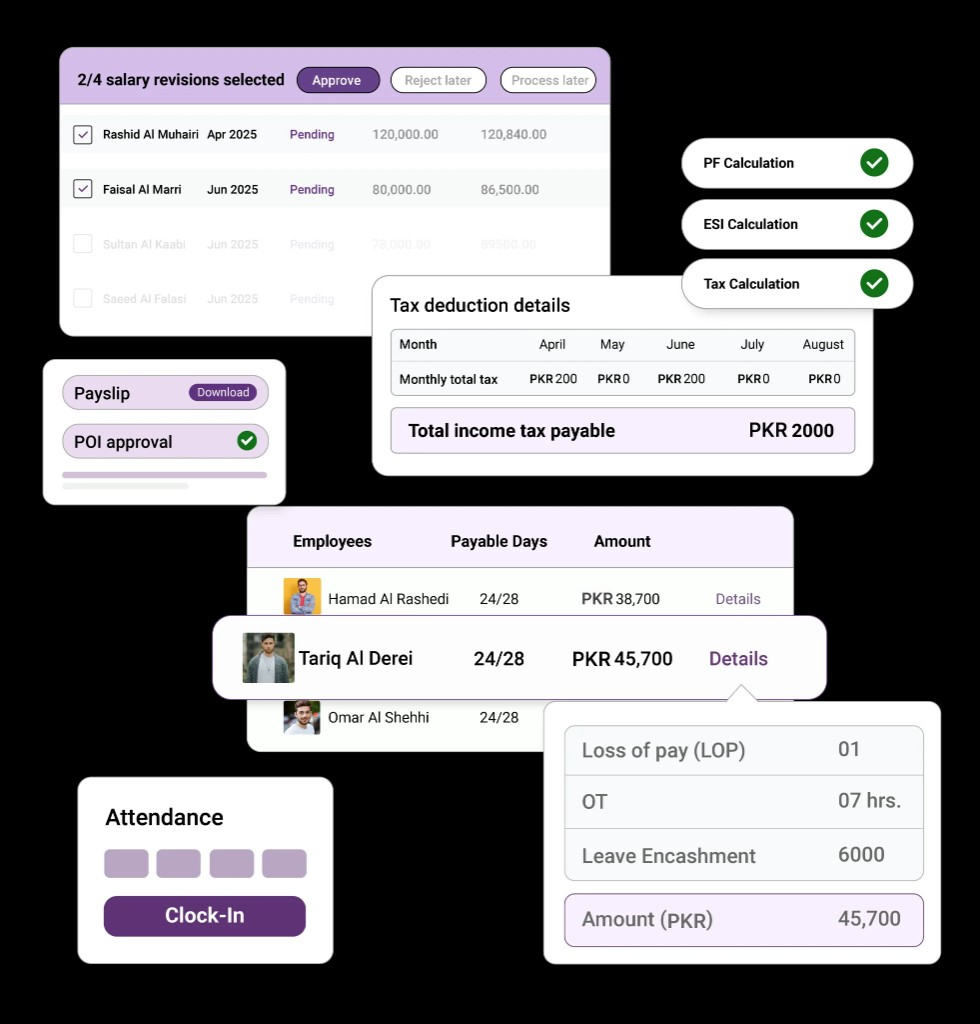
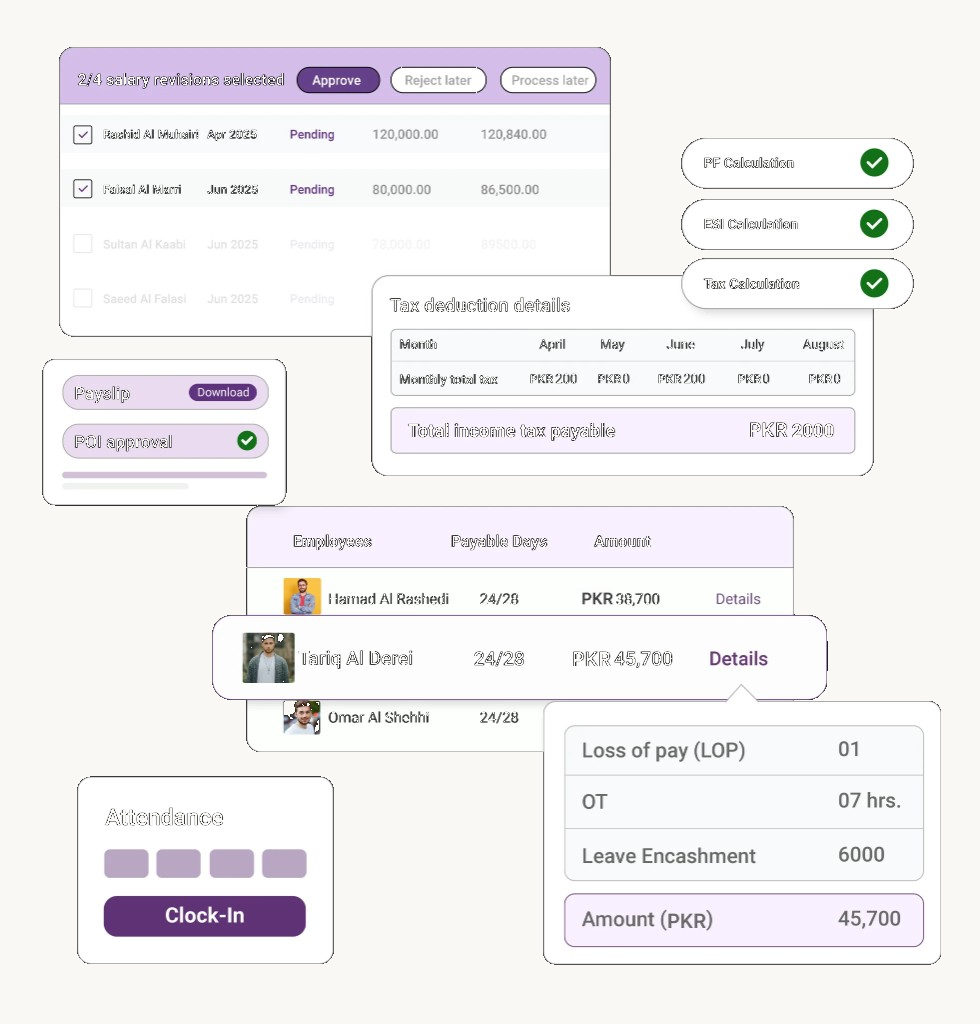
more changes

diff --git a/client/src/components/sections/hr-cream-split-section.tsx b/client/src/components/sections/hr-cream-split-section.tsx
@@ -17,8 +17,6 @@ interface HrCreamSplitSectionProps {
   /** Text column first on large screens */
   textFirst?: boolean;
   cream?: boolean;
-  /** Blends dark matte PNGs into the cream section background */
-  imageBlendLighten?: boolean;
 }
 
 export default function HrCreamSplitSection({
@@ -30,7 +28,6 @@ export default function HrCreamSplitSection({
   imageAlt,
   textFirst = true,
   cream = true,
-  imageBlendLighten = false,
 }: HrCreamSplitSectionProps) {
   const bg = cream ? HR_CREAM : "#ffffff";
 
@@ -72,19 +69,15 @@ export default function HrCreamSplitSection({
       delay={textFirst ? 0.08 : 0}
       className="w-full"
     >
-      <div
-        className="relative rounded-2xl p-2 sm:p-4"
-        style={{ backgroundColor: bg }}
-      >
+      <div className="relative rounded-2xl p-1 sm:p-2" style={{ backgroundColor: bg }}>
         <img
           src={image}
           alt={imageAlt}
-          className={`w-full h-auto max-w-2xl mx-auto ${
-            imageBlendLighten ? "mix-blend-lighten" : "drop-shadow-[0_20px_50px_rgba(15,23,42,0.12)]"
-          }`}
+          className="w-full h-auto max-w-2xl mx-auto rounded-xl"
           width={880}
           height={640}
           loading="lazy"
+          decoding="async"
         />
       </div>
     </FadeInSection>

diff --git a/client/src/pages/hr-software.tsx b/client/src/pages/hr-software.tsx
@@ -162,7 +162,6 @@ export default function HRSoftware() {
         image={HR_CHOOSE_PAYROLL_IMAGE}
         imageAlt="Payroll software UI: salary revisions, tax deductions in PKR, payslips, and attendance clock-in"
         textFirst
-        imageBlendLighten
       />
 
       <HrCreamSplitSection
@@ -180,7 +179,6 @@ export default function HRSoftware() {
         image={HR_KEY_FEATURES_IMAGE}
         imageAlt="Leave balances, mobile leave requests, admin time-off approvals, and HR documents"
         textFirst
-        imageBlendLighten
       />
 
       <HrCreamSplitSection
@@ -198,7 +196,6 @@ export default function HRSoftware() {
         image={HR_BENEFITS_IMAGE}
         imageAlt="Attendance time and pay adjustments, daily admin report, biometric clock-in"
         textFirst={false}
-        imageBlendLighten
       />
 
       <HrCreamSplitSection

diff --git a/client/src/components/sections/hr-why-choose-section.tsx b/client/src/components/sections/hr-why-choose-section.tsx
@@ -18,7 +18,7 @@ export default function HrWhyChooseSection() {
               <img
                 src={HR_WHY_CHOOSE_IMAGE}
                 alt="Employer overwhelmed by HR and payroll questions — CodeVente helps simplify HRMS in Pakistan"
-                className="w-full max-w-[340px] sm:max-w-[380px] h-auto object-contain mix-blend-lighten"
+                className="w-full max-w-[340px] sm:max-w-[380px] h-auto object-contain"
                 width={640}
                 height={520}
                 loading="lazy"
